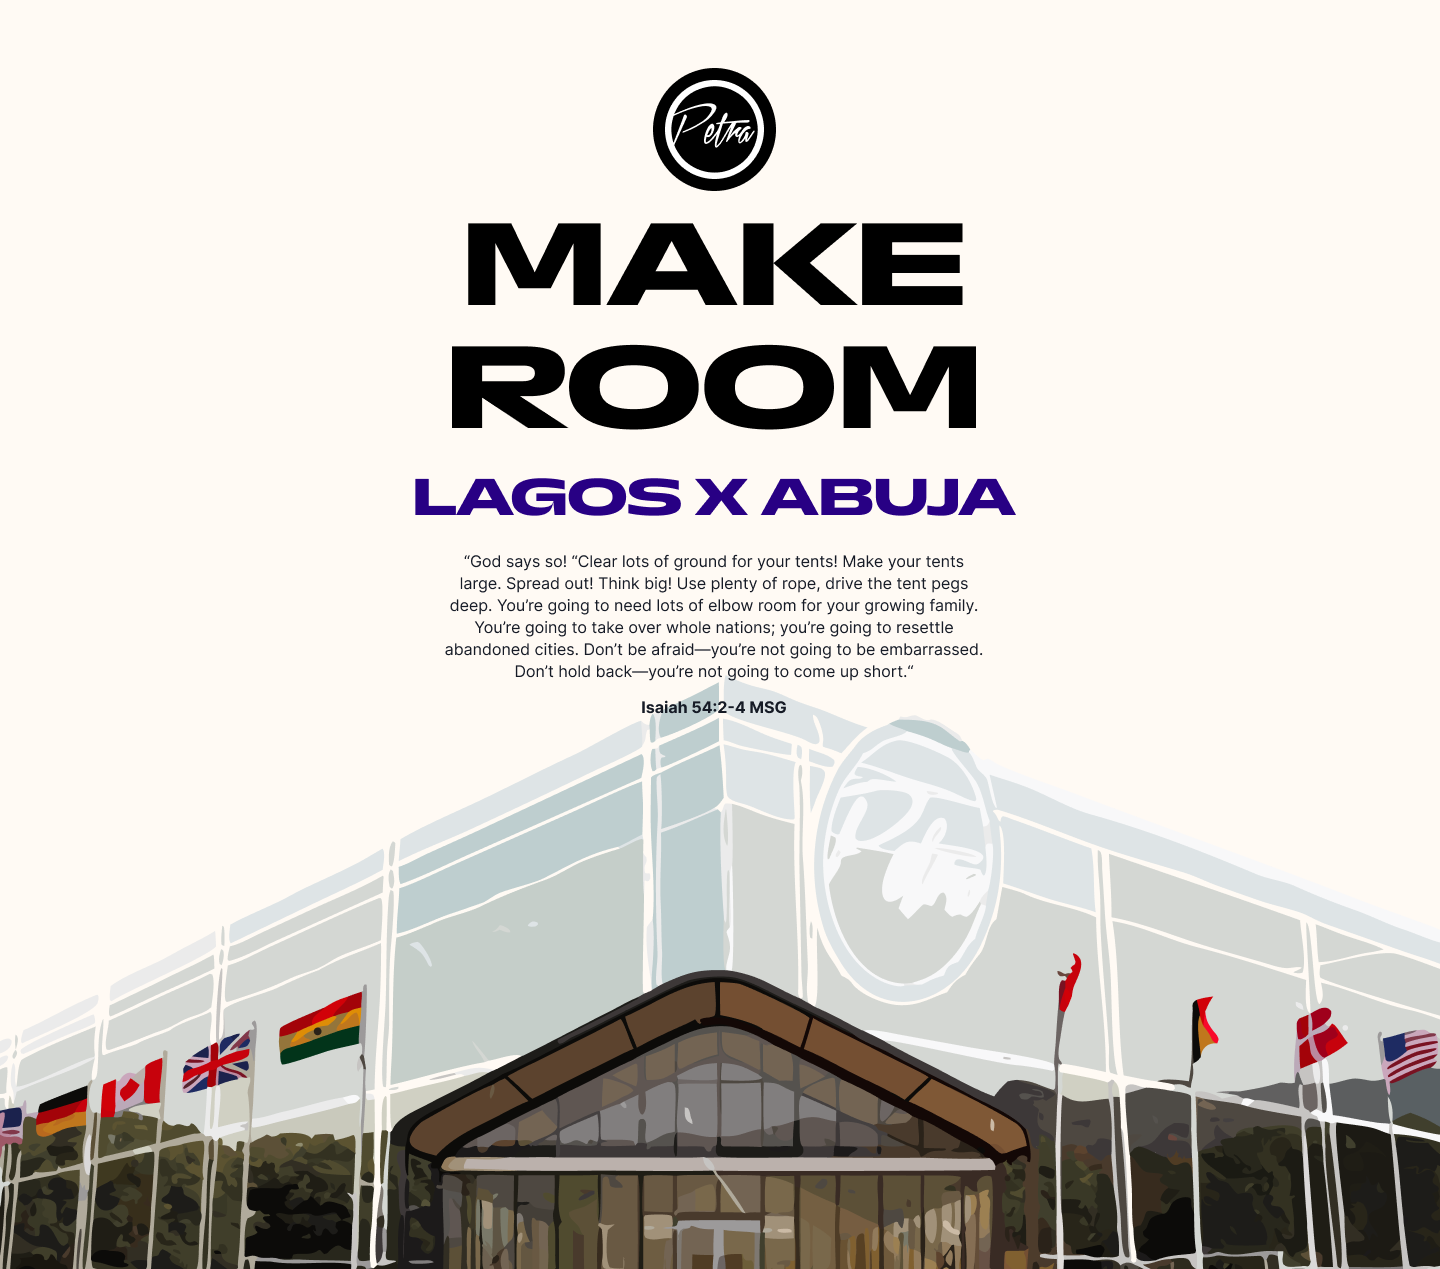
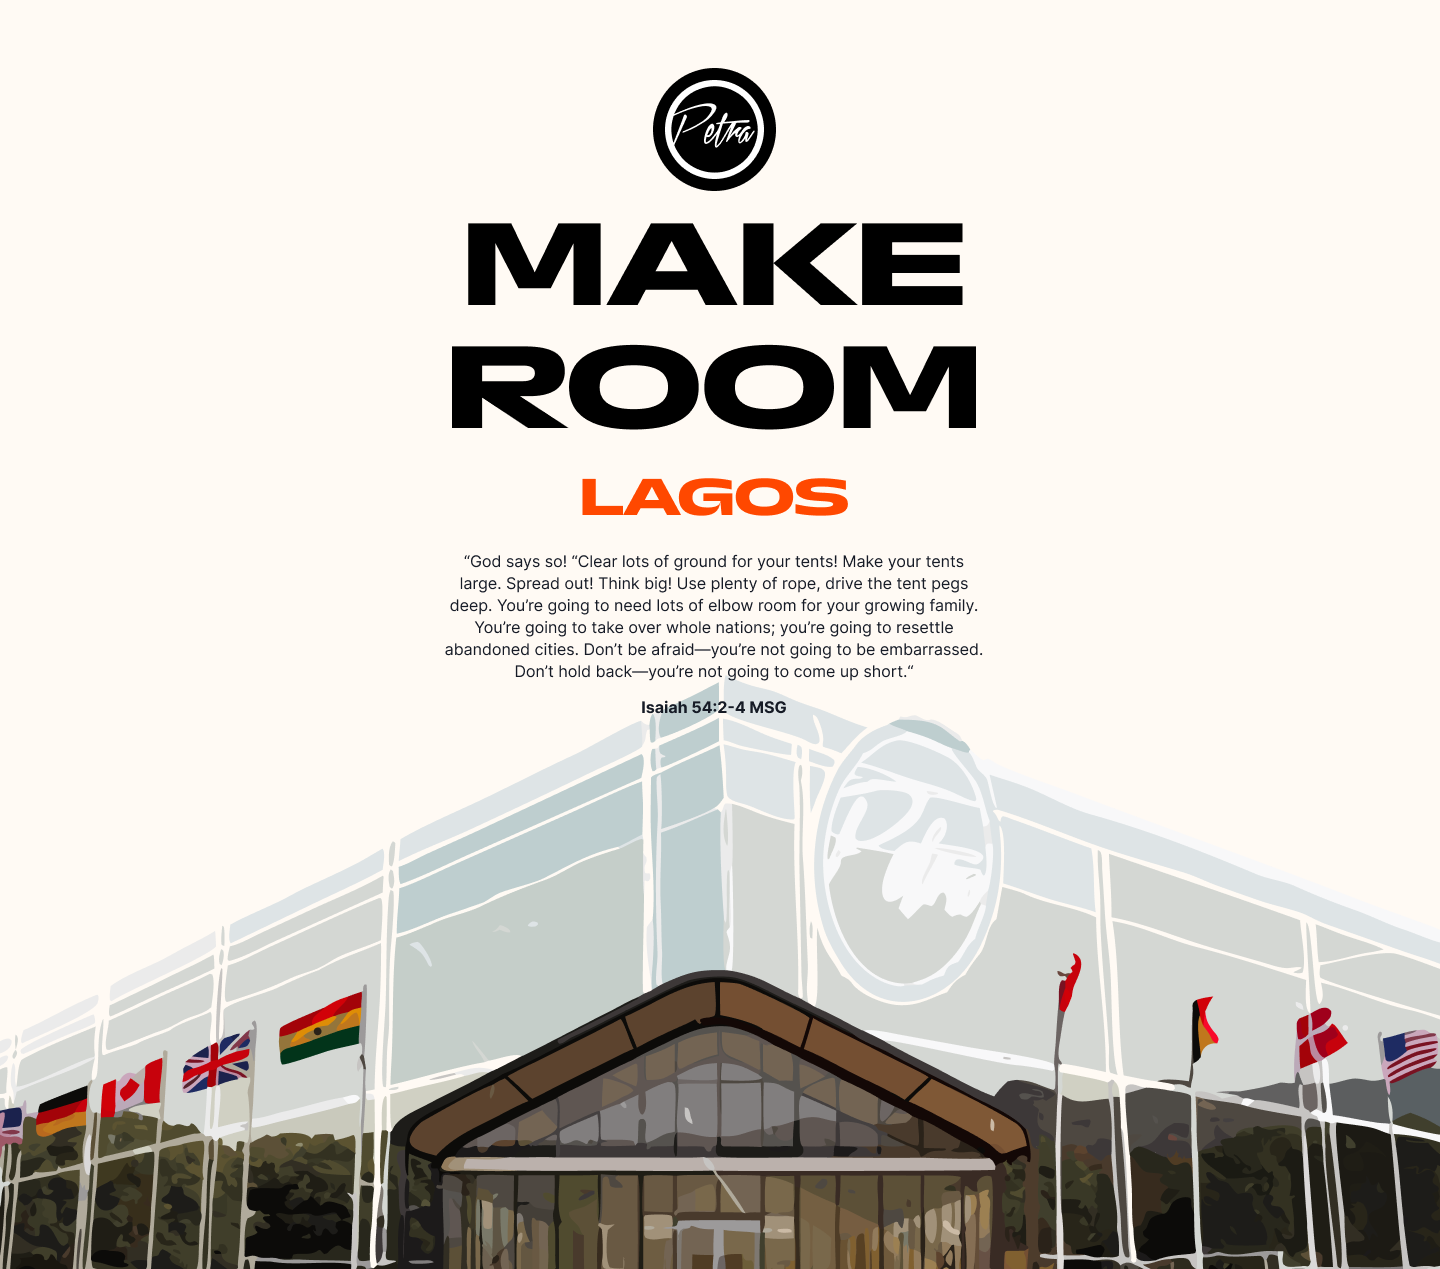
Update link preview thumbnail
New Thumbnail.png (Lagos). Preview image URLs point straight at
petramakeroom.com (no www redirect) with ?v=2 so apps fetch the new image
instead of a cached one.

Changed region(s): [[0.2812, 0.3688, 0.7188, 0.4303]]

diff --git a/index.html b/index.html
@@ -24,17 +24,17 @@
 <!-- Link previews (WhatsApp, iMessage, X, Facebook, Slack). Image URLs must be absolute. -->
 <meta property="og:type" content="website" />
 <meta property="og:site_name" content="Petra Make Room" />
-<meta property="og:url" content="https://www.petramakeroom.com/" />
+<meta property="og:url" content="https://petramakeroom.com/" />
 <meta property="og:title" content="Make Room: Lagos x Abuja" />
 <meta property="og:description" content="Sow a seed towards Petra's new homes in Lagos and Abuja." />
-<meta property="og:image" content="https://www.petramakeroom.com/images/Thumbnail.png" />
+<meta property="og:image" content="https://petramakeroom.com/images/Thumbnail.png?v=2" />
 <meta property="og:image:width" content="1440" />
 <meta property="og:image:height" content="1269" />
-<meta property="og:image:alt" content="Make Room, Lagos x Abuja, with the Petra building" />
+<meta property="og:image:alt" content="Make Room, Lagos, with the Petra building" />
 <meta name="twitter:card" content="summary_large_image" />
 <meta name="twitter:title" content="Make Room: Lagos x Abuja" />
 <meta name="twitter:description" content="Sow a seed towards Petra's new homes in Lagos and Abuja." />
-<meta name="twitter:image" content="https://www.petramakeroom.com/images/Thumbnail.png" />
+<meta name="twitter:image" content="https://petramakeroom.com/images/Thumbnail.png?v=2" />
 <style>
 @import url("https://fonts.googleapis.com/css?family=Zalando+Sans+SemiExpanded:700,900|Zalando+Sans:600|Inter:400,700");/* @FONTWARNING[{"type": "restricted", "family": "JUST Sans-SemiBold", "weight": "600", "style": "normal", "allowsCrossOrigin": false}] */
 
